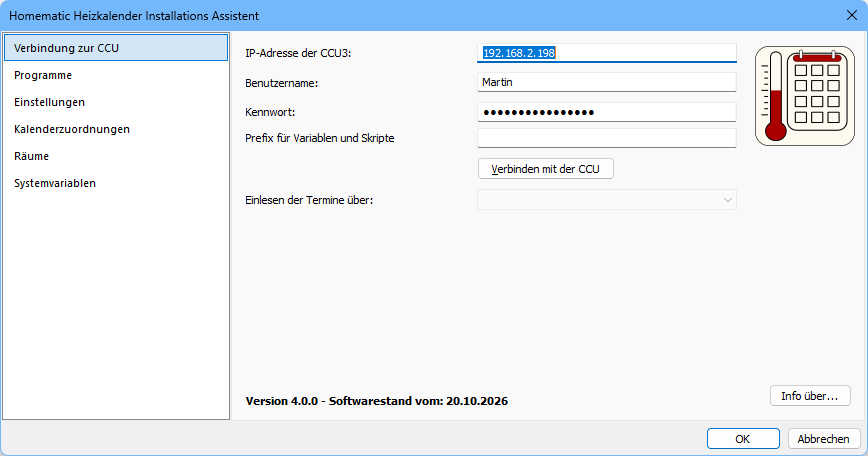
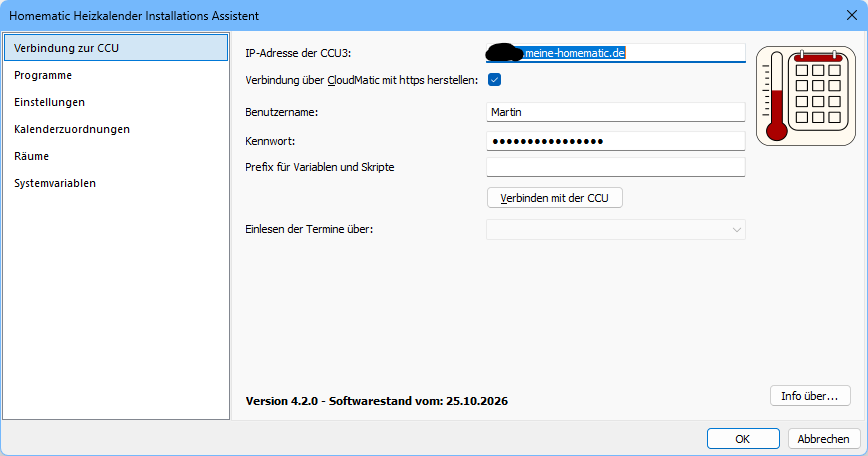
Erweiterung der Doku für CloudMatic Fernzugriff
- Erweiterung der Doku für CloudMatic Fernzugriff
- Anwendungsbilder korrigiert

diff --git a/docs/heizkalender-installation/readme.md b/docs/heizkalender-installation/readme.md
@@ -12,7 +12,8 @@ Bei der Nutzung von ChurchTools/ChurchDesk werden bei Bedarf auch alle Raumvaria
 
 - Betriebssystem: Windows
 - Die CCU muss in den Sicherheitseinstellungen den Zugriff auf die Remote Homematic-Script API erlauben. Dabei muss entweder ein eingeschränkter Zugriff auf die benötigten Funktionen oder ein Vollzugriff gewährt werden, damit die `HeizkalenderInstallation.exe` die notwendigen Skripte und Variablen erstellen kann.
-- Ein Administrator-Benutzer und das zugehörige Kennwort müssen bekannt sein.
+- Ein Administrator-Benutzer und das zugehörige Kennwort müssen bekannt sein.  
+    Alternativ kann der Zugriff auch über den  CloudMatic Fernzugriff erfolgen oder eine VPN-Lösung wie WireGuard.
 - Alle Skripte, die installiert werden sollen, müssen im Programmverzeichnis der `HeizkalenderInstallation.exe` liegen. Die Namen sind vorgegeben und dürfen nicht verändert werden. Es können weitere Tool-Skripte hinzugefügt werden. Diese werden ebenfalls installiert und später aktualisiert, solange die entsprechenden Dateien im Verzeichnis der `HeizkalenderInstallation.exe` liegen.
 - Um auf Ressourcen und externe Kalender zugreifen zu können, muss der Rechner mit dem Internet verbunden sein.
 - Eine lauffähige Kopie der `HeizkalenderInstallation.exe` liegt im Skripte-Verzeichnis.
@@ -39,6 +40,9 @@ Oder es wird *Eingeschränkter Zugriff* erteilt und die IP-Adresse des Rechners,
 Freigegebene IP-Adresse für den Zugriff:
 
 ![CCU-Zugriff: Freigegebene IP-Adresse](bilder/CCU-Zugriff-3.png)
+
+**Alternativ kann der Zugriff auch über den CloudMatic Fernzugriff erfolgen.**  
+**In diesem Fall folgen Sie der [CloudMatic Dokumentation](https://docs.easy-smarthome.de/CloudMatic/Connect/Fernzugriff/?utm_source=chatgpt.com) für das Einrichten und vorbereiten Ihrer CCU für die Nutzung der CloudMatic mit dem Fernzugriff.**
 
 ## Kurzanleitung
 
@@ -82,7 +86,7 @@ Für ein Update oder das Ändern der aktuellen Parameter starten Sie die `Heizka
 
 Im Folgenden werden die einzelnen Seiten der `HeizkalenderInstallation.exe` beschrieben.
 
-Greundsätzlich kann die *Eigenschaftseite Vwerbindung zur CCU* nicht verlassen werden, solange keine Verbindung erfolgreich hergestellt wurde.
+Grundsätzlich kann die *Eigenschaftseite Vwerbindung zur CCU* nicht verlassen werden, solange keine Verbindung erfolgreich hergestellt wurde.
 
 Die Eigenschaftseiten *Programme, Einstellungen, Kalenderzuordnungen, Räume* und *Systemvariablen* werden im nachfolgenden beschrieben.
 
@@ -100,9 +104,10 @@ Der Startbildschirm enthält wichtige Informationen über die `HeizkalenderInsta
 
 Im ersten Schritt muss eine Verbindung zur CCU aufgebaut werden, bevor weitere Einstellungen vorgenommen werden können.
 
-1. Geben Sie die Ziel-IP der CCU an.
-2. Geben Sie einen Benutzernamen an, der administrativen Zugriff auf die CCU hat.
-3. Geben Sie das passende Kennwort an.
+1. Geben Sie die Ziel-IP der CCU an, oder den Namen Ihrer CloudMatic Verbindung.
+2. Wählen Sie aus ob die Verbindung lokal oder über HTTPS und eine CloudMatic Verbindung hergestellt werden soll.
+3. Geben Sie einen CCU Benutzernamen und Kennwort an, der administrativen Zugriff auf die CCU hat, sofern der Zugriff auf eine lokale CCU (lokale IP) erfolgt.  
+    Erfolgt der Zugriff über die CloudMatic geben SIe hier bitte den Benutzernamen und das Kennwort für Ihren CloudMatic Fernzugriff an. Die Adresse hat dann folgendes Format: *\<cloudmaticid>.meinecloudmatic.de*.
 4. Geben Sie optional einen Prefix für Variablen und Skripte an (siehe Hinweis unten).
 5. Klicken Sie auf den Schalter **Verbinden mit der CCU**.
 
@@ -111,7 +116,11 @@ Im ersten Schritt muss eine Verbindung zur CCU aufgebaut werden, bevor weitere E
 >
 > Damit lassen sich mehrere Installationen parallel testen oder eine Installation von bereits bestehenden Systemvariablen oder Programmen abgrenzen. Wird die bestehende Installation einer CCU ausgelesen, wird erwartet, dass alle bisher genutzten Variablen und Programme diesen Prefix verwenden.
 
-<!-- HTML Kommentar zum Trennen der beiden Blockquotes -->
+Erfolgt der Zugriff über das CloudMatic Netz, wird intern der Port 44381 verwendet. Dieser Port wird über HTTPS Verschlüsselt mit dem CloudMatic Netzwerk an den Skript-Port 8181 der CCU weitergeleitet.
+
+Es ist auch möglich den Haken bei **Verbindung über &CloudMatic mit HTTPS herstellen** nicht zu setzen und dennoch über die CloudMatic Adresse über Port 8181 auf die \<cloudmaticid>.meinecloudmatic.de zuzugreifen. Die Kommunikation über das Internet erfolgt dann aber unverschlüsselt.
+
+Im lokalen Netzwerk erfolgt auch die Kommunikation über die Skript-Schnittstelle Port 8181 unverschlüsselt.
 
 > [!CAUTION]
 > Wird der Prefix falsch verwendet, können Skripte und Variablen mehrfach installiert werden. Das kann zu Fehlfunktionen und zu einer Überlastung der CCU führen. Sollen mehrere Installationen parallel getestet werden, achten Sie darauf, dass immer nur ein Satz Programme aktiviert ist.
@@ -171,9 +180,25 @@ Bei einer bestehenden, eingerichteten CCU erhalten Sie eine Anzeige über den Ve
 
 ![Verbunden mit der CCU](bilder/HKI-Verbunden.png)
 
+#### Einlesen bzw. Aktualisieren der Raumliste
+
+> [!WARNING]
+> Die Raumliste sollte nur dann neu eingelesen werden, wenn sich die Räume oder die Anzahl der zu verwaltenden Ressourcen ändern. Andernfalls können Einstellungen verloren gehen.
+
+![Warnung Raumliste neu einlesen](bilder/HKI-RaumlisteEinlesen1.png)
+
+![Warnung Raumliste neu einlesen](bilder/HKI-RaumlisteEinlesen2.png)
+
+
+
 #### Wechsel zu einer anderen Ressourcen-Variante
 
-<!-- TODO: Dokumentation oder Screenshot einfügen -->
+Es ist möglich in einer bestehenden Installation die Terminquelle zu wechseln. 
+
+> [!WARNING]
+> Bitte nehmen Sie hier nur dann einen Wechsel der Terminquelle vor, wenn dies auch wirklich gewünscht wird.  Andernfalls können Einstellungen verloren gehen.
+
+Nach dem Wechsel der Terminquelle empfiehlt es sich die Raum- und Ressourcenliste neu einzulesen.
 
 ### Eigenschaftsseite *Programme / Skripte*
 
@@ -507,10 +532,24 @@ Die Ausgabe der Log-Dateien erfolgt automatisch im zugehörigen Ordner für temp
 
 ## Zugriff von außerhalb mit dem `HeizkalenderInstallation.exe`
 
-Der Zugriff auf die CCU mit dem Installationsprogramm kann nicht über die CloudMatic erfolgen. Man benötigt in jedem Fall einen direkten Netzwerkzugriff auf die CCU über Port 8181.
+Für den Fernzugriff auf die Homematic-Zentrale können unterschiedliche VPN-basierte Lösungen eingesetzt werden, beispielsweise WireGuard für den direkten Netzwerkzugriff oder CloudMatic Connect für den herstellerspezifischen Fernzugriff auf die CCU.
+
+### CloudMatic 
+
+Der externe Zugriff auf die CCU mit dem Installationsprogramm kann über die CloudMatic erfolgen. Hierbei wird entweder eine verschlüsselte HTTPS-Verbindung erzeugt über Port 44381, oder es wird unverschlüsselt über Port 8181 übertragen.  
+
+Eine Dokumentation wie der CloudMatic Fernzugang eingerichtet werden kann findet sich auf der Website von [CloudMatic/easy smarthome](https://docs.easy-smarthome.de/CloudMatic/Connect/Fernzugriff/?utm_source=chatgpt.com).  
+
+Die CloudMatic ist ein kostenpflichtiger Dienst. Für den Fernzugriff über ist mindestens das Paket *CloudMatic Connect* erforderlich. In vielen Installationen nutzen wir *CloudMatic Complete*, weil hier über den Fernzugriff hinaus auch noch eigene Diagramme, Eigene Ansichten und Darstellungen der eigenen CCU möglich sind.
+
+### WireGuard
 
 Mit einer modernen FRITZ!Box ab FRITZ!OS Version 7.50 kann dieser Zugriff einfach über WireGuard erfolgen.
 
 Auf er Webseite von ELV findet sich dazu folgende [Anleitung](
 https://ch.elv.com/elvwissen/elvprojekte/sicherheit/fernzugriff-auf-die-CCU-webui-und-hcu-web-per-wireguard-fritzbox/) zur Installation von WireGuard und dem Zugriff auf eine CCU.  
 Auch ein passendes [Erklärvideo](https://www.youtube.com/watch?v=j7wpmiuKrxY) steht auf YouTube zur Verfügung.
+
+### Andere VPN Dienste
+
+Sofern ein Zugriff auf Port 8181 möglich ist, sollten auch andere VPN-Lösungen einen Zugriff mit der `HeizkalenderInstallation.exe` erlauben.
